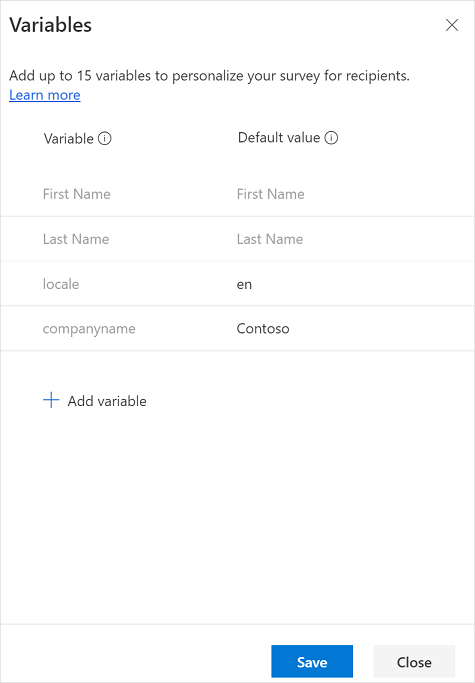
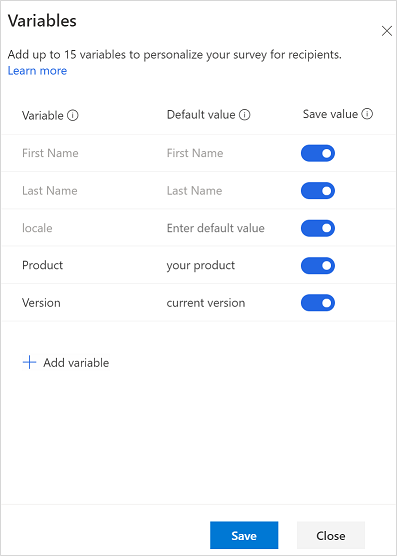
csv variables upload

diff --git a/cv-docs/send-survey-email.md b/cv-docs/send-survey-email.md
@@ -1,7 +1,7 @@
 ---
 title: "Send a survey by using email | MicrosoftDocs"
 description: "Instructions for sending a survey by using email"
-ms.date: 10/30/2020
+ms.date: 11/10/2020
 ms.service: 
   - dynamics-365-customervoice
 ms.topic: article
@@ -28,7 +28,7 @@ Dynamics 365 Customer Voice provides an easy way to send your survey to multiple
     - Entering an email address manually.
     - Entering a name, email address, or a distribution list from Azure Active Directory.
     - Entering a contact or contact list/view from Common Data Service. The contacts are populated from the environment in which your project is created.
-    - Uploading a CSV file by selecting **Upload contacts**. More information: [Upload contacts from a CSV file](#import-recipients)
+    - Uploading a CSV file by selecting **Upload contacts**. More information: [Upload contacts from a CSV file](#upload-contacts-from-a-csv-file)
 
 4. To insert the survey link into your email message, see [Insert a survey link](#insert-survey-link).  
 
@@ -49,23 +49,21 @@ Dynamics 365 Customer Voice provides an easy way to send your survey to multiple
 > - To customize the **From** address of the email, see [Customize the sender's email address](customize-sender-email.md).
 
 
-<a name="import-recipients"></a>
-
 ## Upload contacts from a CSV file
 
-You can upload a maximum of 10,000 contacts by using a CSV file. You can also use this file to associate a survey invitation and response to an entity in Common Data Service. To upload contacts, you must first [create the CSV file](#create-a-csv-file) and then [upload the CSV file](#upload-a-csv-file).
+You can upload a maximum of 10,000 contacts by using a CSV file. You can also use this file to associate a survey invitation and response to an entity in Common Data Service. You can also specify values for the variables added in the **Variables** panel. To upload contacts, you must first [create the CSV file](#create-a-csv-file) and then [upload the CSV file](#upload-a-csv-file).
 
 <a name="create-a-csv-file"></a>
 
 ### Create the CSV file
 
-Provide details in the CSV file in the following order: Email address, first name, last name. To associate a survey invitation and response to an entity, you must provide the regarding entity ID and regarding entity name. To quickly get started, you can also download a CSV template.
+Provide details in the CSV file in the following order: Email address, first name, last name. If you want to specify values for variables, you can add them after the last name column in the CSV file. To quickly get started, you can also download a CSV template.
 
 **To download a CSV template**
 
 1. In the email editor, select **Upload contacts** in the **Recipients** field.
 
-2. In the **Upload contacts** panel, select **Download a template**.
+2. In the **Upload contacts** panel, select **Download template**.
 
     ![Download a CSV template to create a recipient list](media/download-csv-template.png "Download a CSV template to create a recipient list")
 
@@ -74,9 +72,28 @@ After the CSV template is downloaded, enter the required information in the foll
 - **First name**: First name of the recipient.
 - **Last name**: Last name of the recipient.
 
-To associate a survey invitation and response to an entity, add the following columns to the CSV file and enter the information:
-- **RegardingID**: ID of the entity to associate with the survey invitation and response. 
+If you've added variables to your survey, they’ll be available as separate columns in the CSV file. You can specify the values as per your requirement. 
+
+If you want to associate a survey invitation and response to an entity, you can either add the **RegardingID** and **RegardingEntityName** columns to the CSV file and enter the information or download the advanced CSV template.
+
+**To download an advanced CSV template**
+
+1.	In the email editor, select **Upload contacts** in the **Recipients** field.
+
+2.	In the **Upload contacts** panel, expand the **Advance options** section, and then select **Download advanced template**.
+
+    ![Download a advanced CSV template to create a recipient list](media/download-advance-csv-template.png "Download an advanced CSV template to create a recipient list")
+
+After the CSV template is downloaded, enter the required information in the following columns:
+
+- **Email address**: Email address of the recipient.
+- **First name**: First name of the recipient.
+- **Last name**: Last name of the recipient.
+- **locale**: Locale of the survey while embedding it in the email.
+- **RegardingID**: ID of the entity to associate with the survey invitation and response.
 - **RegardingEntityName**: Name of the entity to associate with the survey invitation and response.
+
+If you've added variables to your survey, they’ll be available as separate columns in the CSV file. You can specify the values as per your requirement. 
 
 <a name="upload-a-csv-file"></a>
 

diff --git a/cv-docs/personalize-survey.md b/cv-docs/personalize-survey.md
@@ -1,7 +1,7 @@
 ---
 title: "Personalize a survey | MicrosoftDocs"
 description: "Instructions for personalizing a survey with Dynamics 365 Customer Voice"
-ms.date: 07/29/2020
+ms.date: 11/10/2020
 ms.service: 
   - dynamics-365-customervoice
 ms.topic: article
@@ -33,6 +33,11 @@ By default, the following variables are available:
 3. In the **Variables** panel, select **Add variable**.
     
 4. Enter a name and default value for the variable.
+
+    The toggle buttons under **Save value** are always turned on and you cannot turn them off. The variable’s values are saved in an individual response record.
+
+    > [!NOTE]
+    > If **Anonymous responses** is turned on under [survey distribution settings](distribution-settings.md#respondents), the toggle buttons under **Save value** are turned off by default. You can turn on the toggle for the required variable to store its value in the response record.
 
     ![New variable created](media/new-survey-variable.png "New variable created")
        
@@ -88,14 +93,25 @@ That question will look like this when a customer named Bert Hair takes the surv
 
 ## Specify values for variables
     
-You must specify default values for variables while you create them. If you don't specify default values, nothing will be displayed for the variables. You can also specify the values for variables:
+If you don't specify default values, nothing will be displayed for the variables. You can also specify the values for variables:
     
 - When sending email invitations.
+- When uploading contacts from a CSV file.
 - When configuring a flow.
 
 ### Specify values when sending email invitations
 
 You can specify default values for the variables by opening the **Customization** pane from the right-side of the page, and selecting **Survey variables**. In the **Variables** panel, specify the default values for the required variables.
+
+### Specify values when uploading contacts from a CSV file 
+
+You can specify values for the variables when uploading contacts from a CSV file. This allows you to personalize the survey as well as the survey invitation emails sent to your recipients. If a default value is specified for a variable in the **Variables** panel, the default value is overwritten with the value specified in the CSV file. In you don't specify a variable's value in the CSV file, the default variable value is used.
+
+Consider the following scenario.
+
+Grace is a product manager at Contoso Ltd. and she collects quarterly feedback from customers. She uses a CSV file containing customers’ names, the product they use, and the product version. Grace has created variables for product and its version and used them in the survey and the email. She can specify the values for the variables as per the customers in the CSV file. When she sends the invitation email, the survey and email are personalized as per the recipient.
+
+For information on how to upload contacts from a CSV file, see [Upload contacts from a CSV file](send-survey-email.md#upload-contacts-from-a-csv-file).
 
 ### Specify values in a flow
 

diff --git a/cv-docs/distribution-settings.md b/cv-docs/distribution-settings.md
@@ -1,7 +1,7 @@
 ---
 title: "Survey distribution settings | MicrosoftDocs"
 description: "Instructions for updating survey distribution settings in Dynamics 365 Customer Voice to control who can respond to your survey and other survey response options"
-ms.date: 10/29/2020
+ms.date: 11/10/2020
 ms.service: 
   - dynamics-365-customervoice
 ms.topic: article
@@ -48,7 +48,10 @@ The available settings are:
 
     By default, this setting is turned off and the respondent's name is recorded.
 
-    When you turn on this setting, the respondent's name isn't recorded. This is helpful when you want to collect survey responses anonymously.
+    When you turn on this setting, the respondent's first name, last name, and email aren't saved in response records by default. If you've added variables to your survey, their values also will not be stored in response records by default. This is helpful when you want to collect survey responses anonymously. A message is displayed below this option that the variables settings are enabled. You can turn on the toggle for the required variable if you want to store its value in the response record. More information: [Personalize a survey by using variables](personalize-survey.md)
+
+    ![Variables settings enabled](media/variables-settings-enabled.png "Variables settings enabled")
+
 
 - **One response per person**: Specify whether a respondent can submit only one response, or more than one.
 
